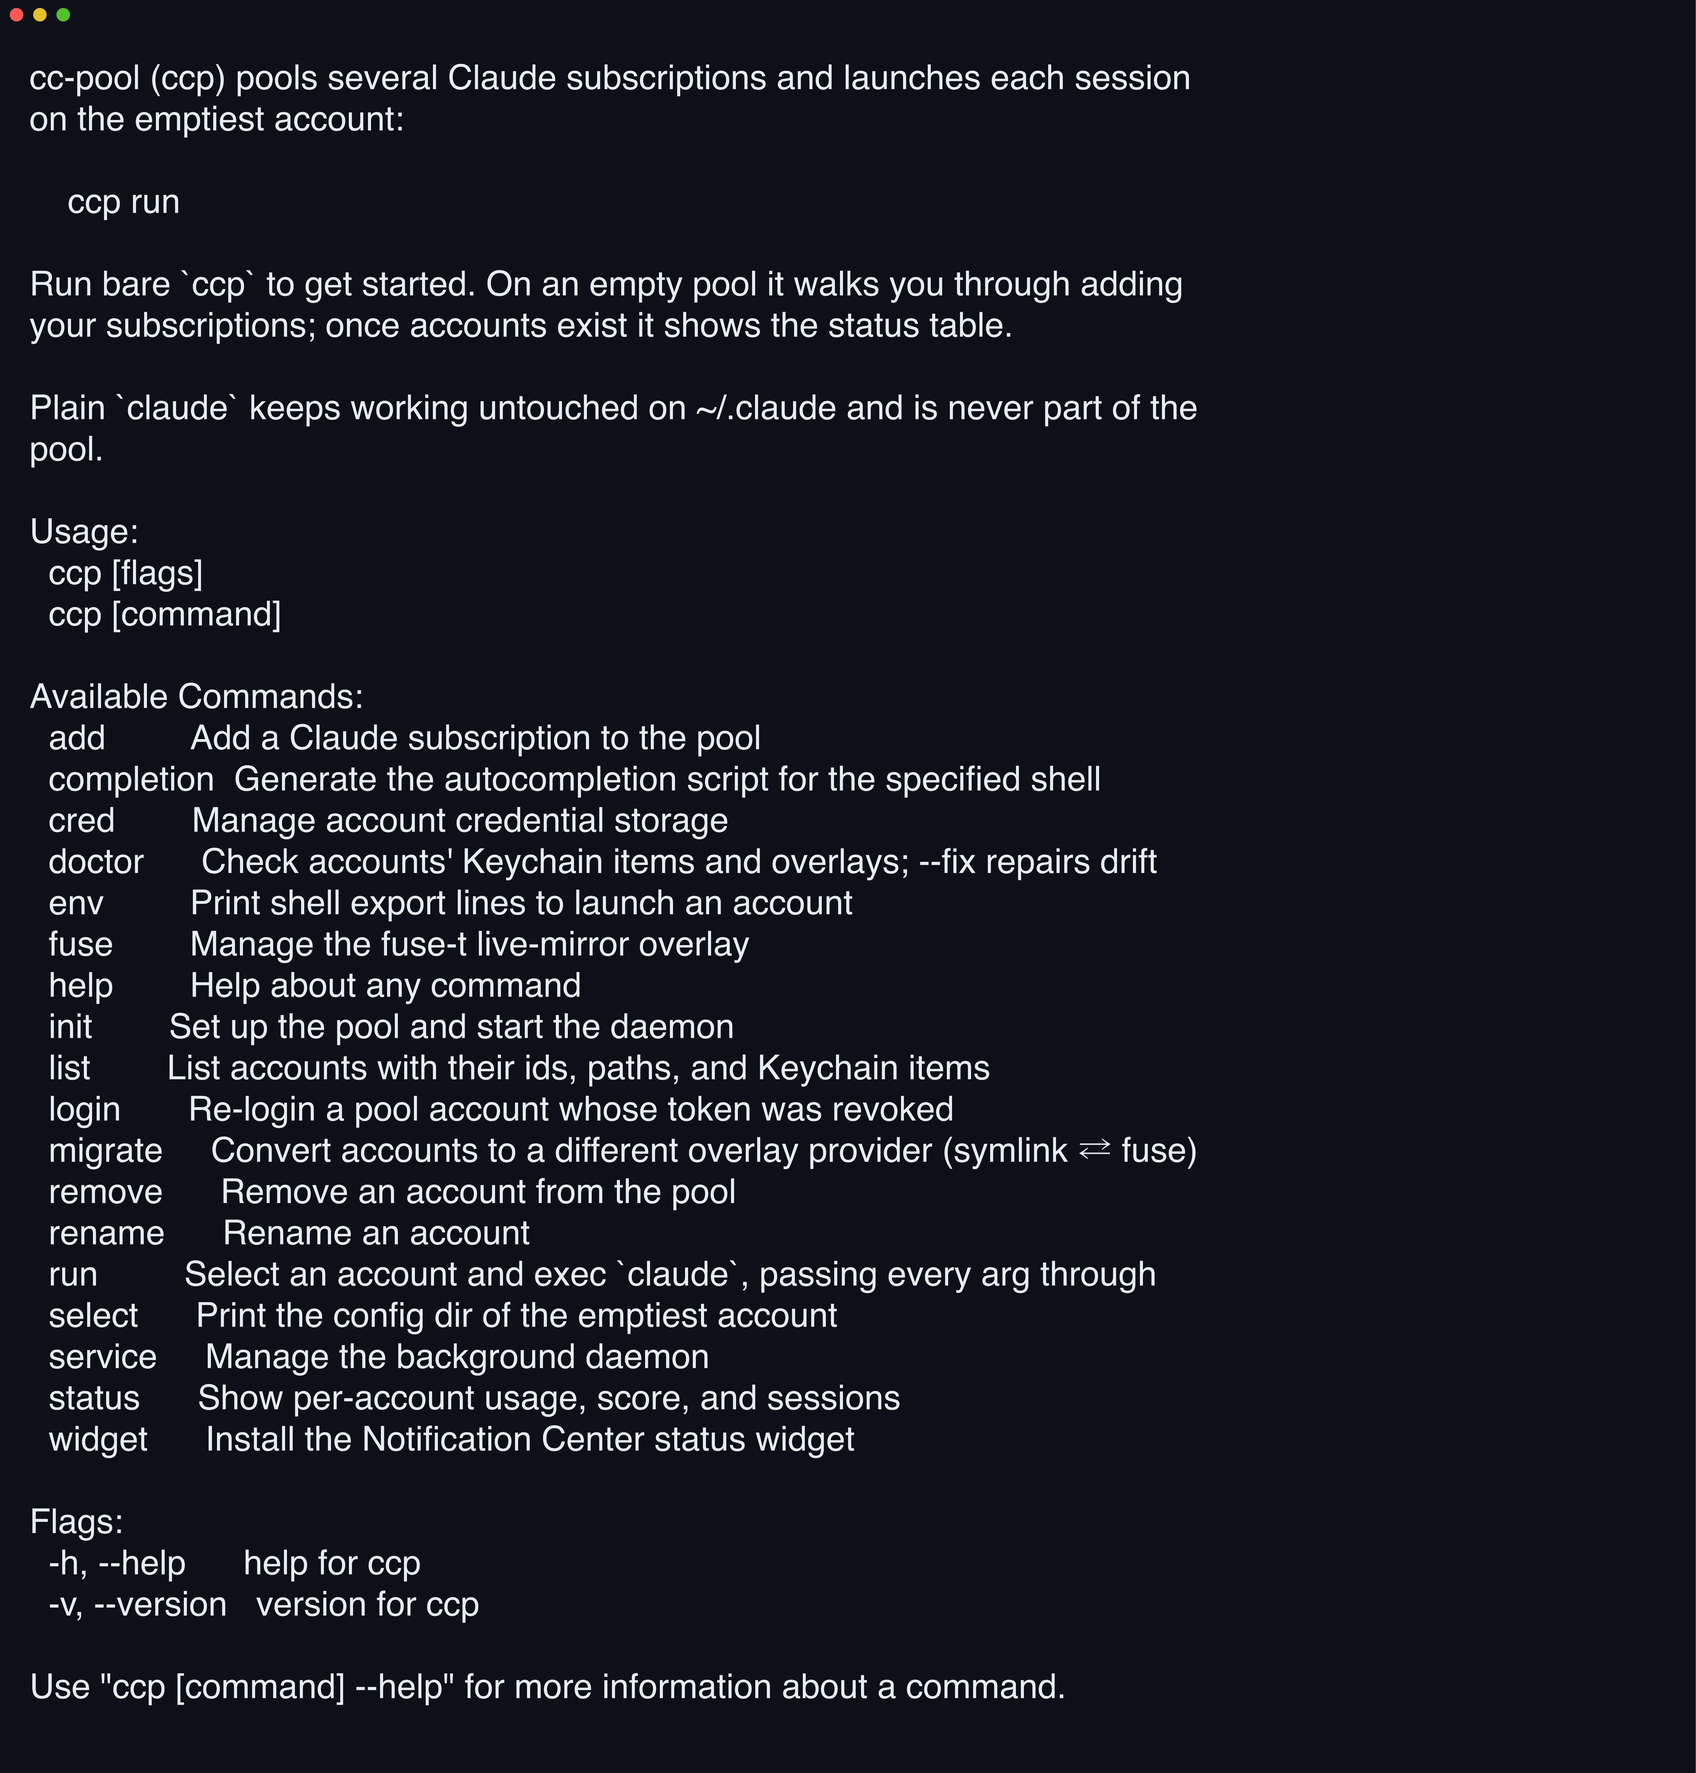
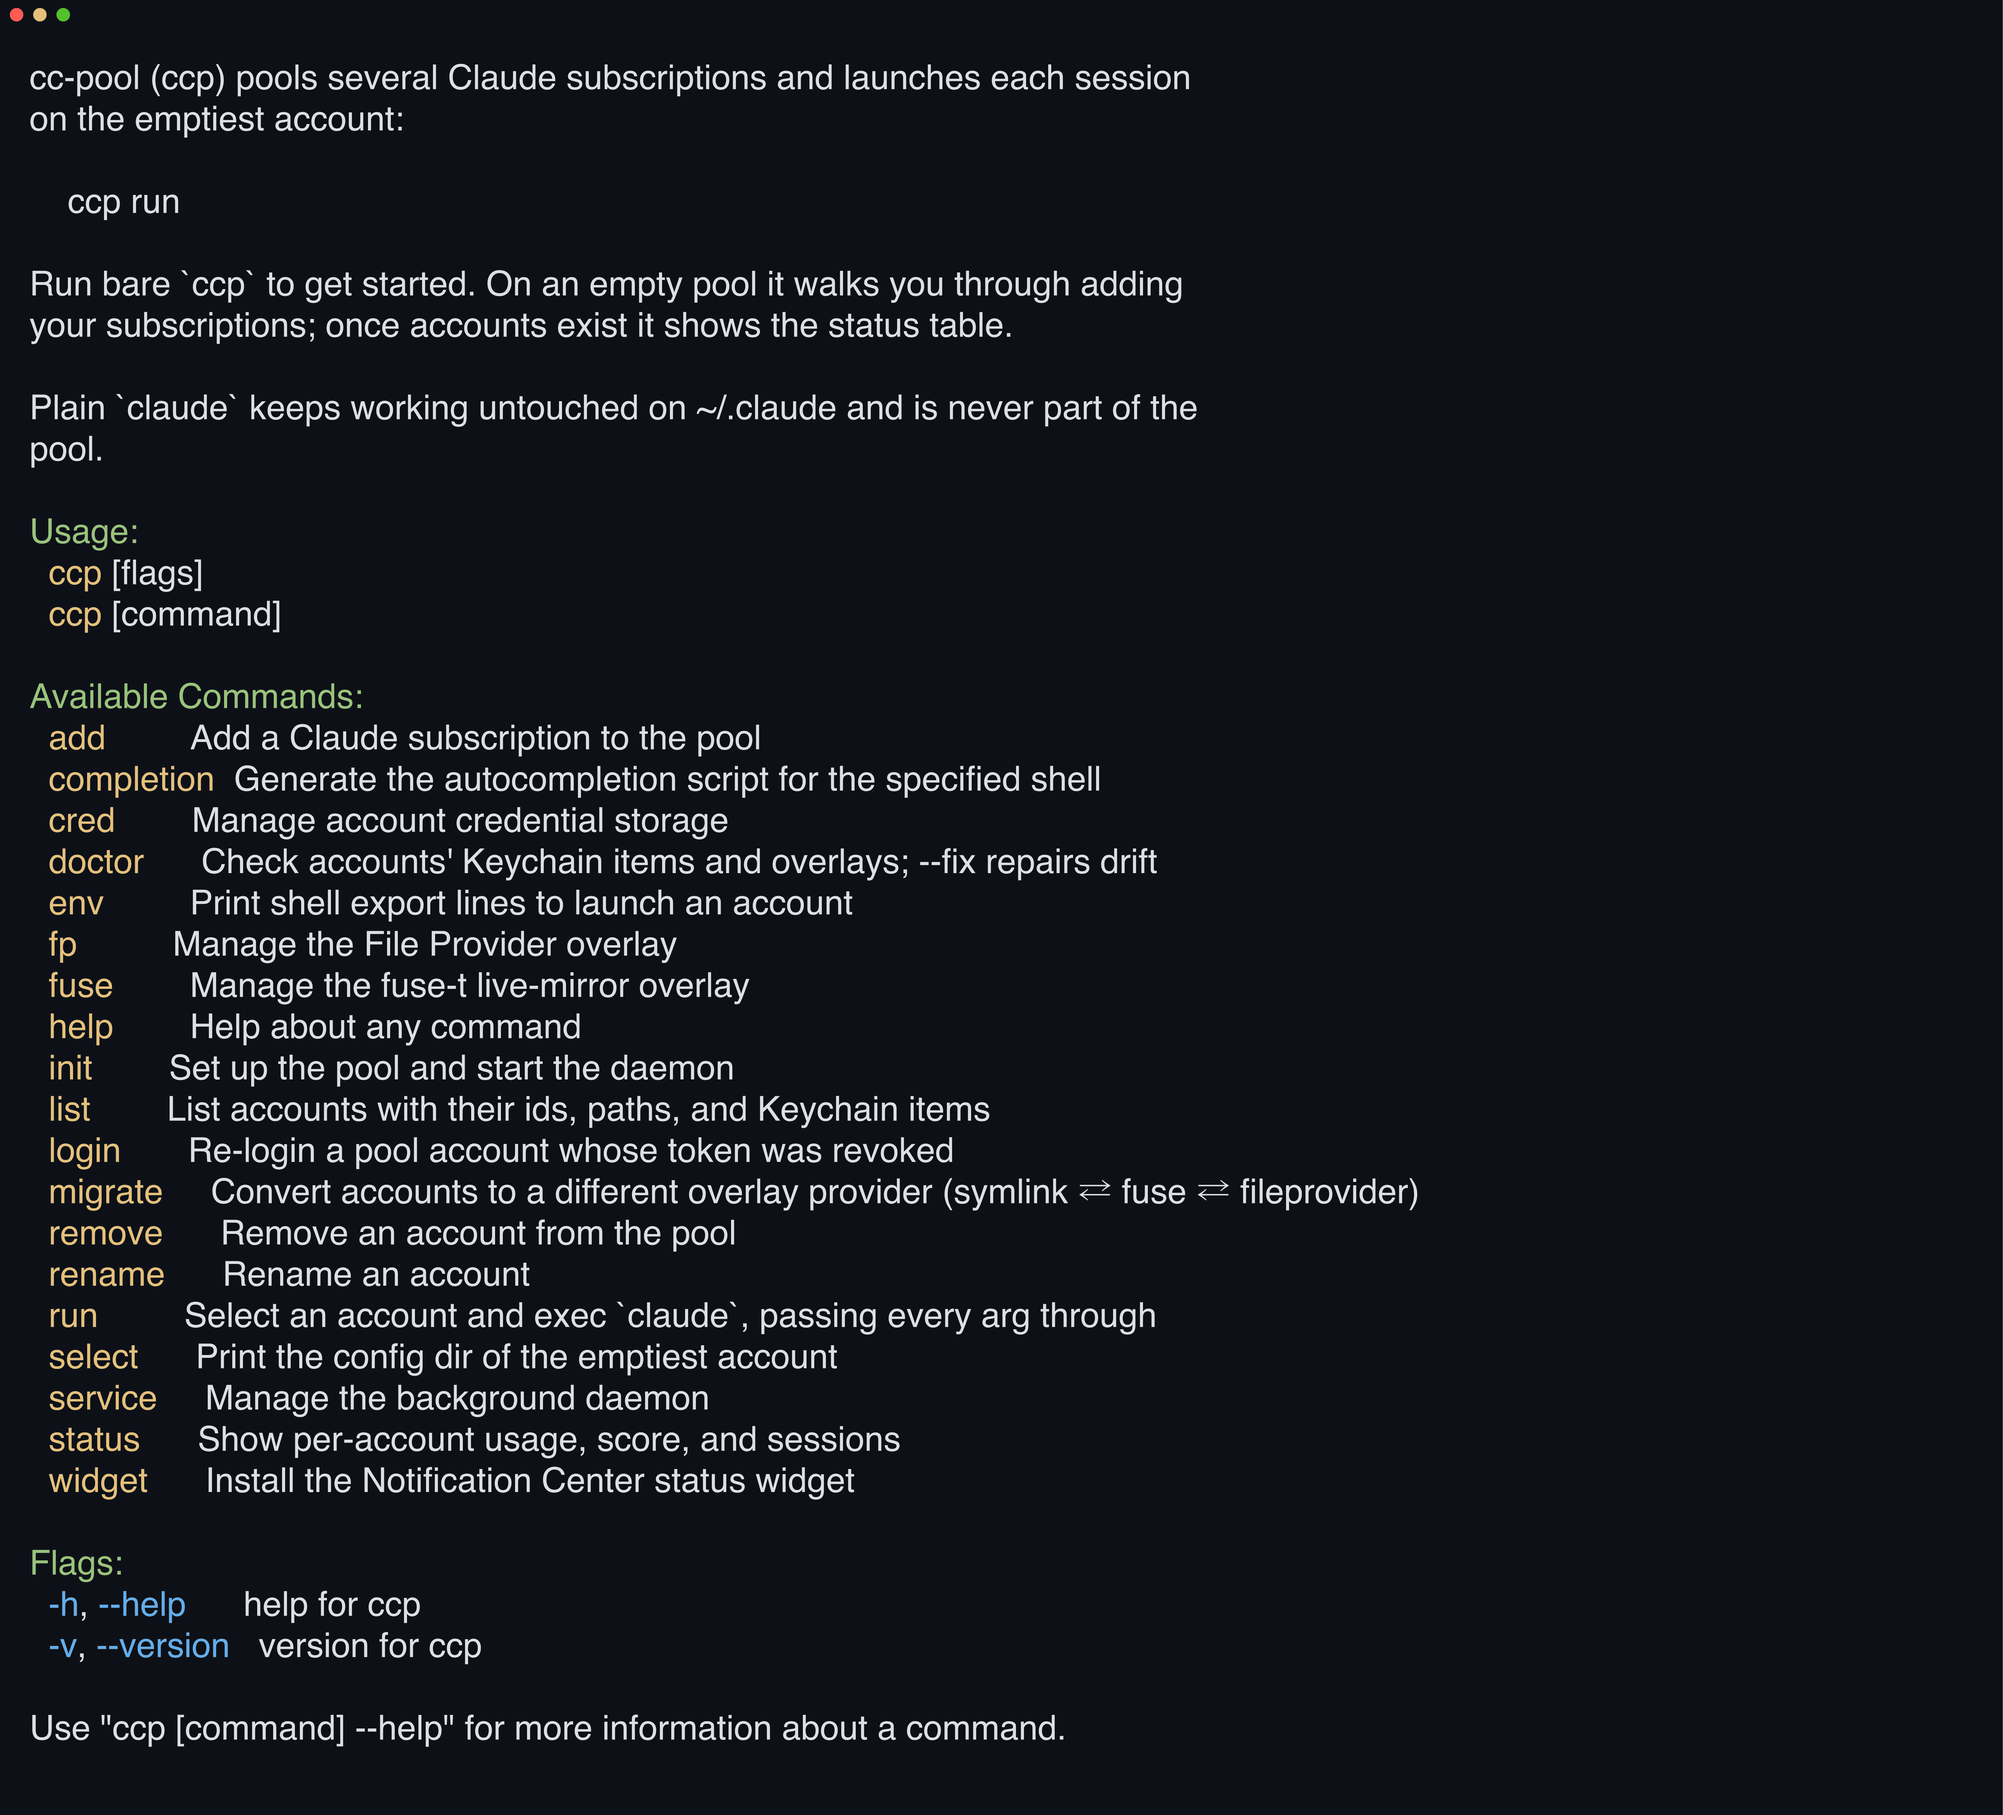
docs: colorize the help demo via bat+freeze and fold the FAQ into use cases

diff --git a/README.md b/README.md
@@ -4,7 +4,7 @@
 
 [![CI](https://img.shields.io/github/actions/workflow/status/yasyf/cc-pool/ci.yml?branch=main&label=CI)](https://github.com/yasyf/cc-pool/actions/workflows/ci.yml)
 [![Release](https://img.shields.io/github/v/release/yasyf/cc-pool)](https://github.com/yasyf/cc-pool/releases)
-[![License: PolyForm Noncommercial](https://img.shields.io/badge/License-PolyForm--Noncommercial--1.0.0-blue.svg)](LICENSE)
+[![License](https://img.shields.io/badge/License-PolyForm--Noncommercial--1.0.0-blue.svg)](LICENSE)
 
 ## Get started
 
@@ -15,7 +15,7 @@ ccp
 
 <img src="docs/assets/demo.png" alt="Terminal running 'ccp --help' — the command list from add to widget, plus the guarantee that plain claude is never part of the pool" width="700">
 
-macOS only; the binary installs as `cc-pool` with a `ccp` symlink. On an empty pool, `ccp` walks you through logging in each subscription — every account gets its own `claude /login` — then offers to wrap `claude` so every session lands on the account with the most headroom.
+macOS only; the binary installs as `cc-pool` with a `ccp` symlink. On an empty pool, `ccp` walks you through logging in each subscription, one `claude /login` per account, then offers to wrap `claude` so every session lands on the account with the most headroom.
 
 Driving with an agent? Paste this:
 
@@ -31,17 +31,19 @@ Finish by running `ccp status --plain` and tell me which account my next session
 
 ### Stop hitting the 5-hour limit while another account sits idle
 
-Run two subscriptions and you hit the same wall every week: one account pegged at its window while the other holds a week of headroom. With the alias in place, launching is unchanged:
+Run two subscriptions and you hit the same wall every week. One account sits pegged at its window while the other holds a week of headroom. With the alias in place, launching is unchanged:
 
 ```sh
 claude
 ```
 
-The wrapper announces its pick on stderr, then execs the real `claude` — cc-pool is gone from the process tree before Claude Code draws its first frame (emails here and below are normalized):
+The wrapper announces its pick on stderr, then execs the real `claude`; cc-pool is gone from the process tree before Claude Code draws its first frame (emails normalized):
 
 ```text
 Selected work@example.com · 5h 22% used · 7d 46% used
 ```
+
+The alias is `alias claude='ccp run'`, so `command claude` bypasses it whenever you want plain claude on `~/.claude`. To leave `claude` untouched entirely, decline the prompt at onboarding or pass `ccp add --no-alias`, then pick your own name, e.g. `alias cl='ccp run'`.
 
 ### See every account's 5-hour and 7-day headroom before you launch
 
@@ -58,7 +60,7 @@ ccp status --plain
 ▸ = next pick · score higher = emptier
 ```
 
-On a terminal, `ccp status` renders the same table as a live TUI.
+On a terminal, `ccp status` renders the same table as a live TUI. When the whole pool is exhausted, `ccp select --wait` blocks until a window frees up; an unforced launch falls back to the least-bad account with a loud stderr warning. That session bills pay-as-you-go credits if extra usage is enabled, or rate-limits until the reset.
 
 ### Keep prompt caches warm by pinning a directory to one account
 
@@ -70,28 +72,15 @@ ccp status   # highlight an account, press p to pin the current directory
 
 Every launch from that directory then announces `Reusing work@example.com (pinned)` instead of `Selected`, whatever the scores say.
 
-## Day-to-day use
+### Glance at the pool without opening a terminal
 
-**Escaping the alias.** The onboarding alias is `alias claude='ccp run'`, and `command claude` bypasses it — plain claude on `~/.claude`, one keystroke away. To leave `claude` untouched, decline the prompt (or pass `ccp add --no-alias`) and pick your own name, e.g. `alias cl='ccp run'`.
-
-**Passing arguments.** `ccp run` forwards every argument to `claude` verbatim — no `--` needed. Bare `ccp` with flags is shorthand for the same thing:
+Headroom you check only at launch time is headroom you discover too late. Put it in Notification Center:
 
 ```sh
-ccp run --resume
-ccp -p "summarize this repo"   # auto-converts to `ccp run -p ...`
+ccp widget
 ```
 
-**Forcing an account.** `CCP_ACCOUNT=2 ccp run` forces account 2 instead of auto-selecting.
-
-**When every account is full.** Selection never picks an exhausted window while any account has headroom, and `ccp select --wait` blocks until one frees up. If the whole pool is exhausted, the launch falls back to the least-bad account and warns loudly on stderr — that session then bills pay-as-you-go credits (if extra usage is enabled) or rate-limits until the window resets.
-
-**Composing it yourself.** `ccp select` prints the chosen config dir on stdout; `ccp env` prints the matching `export` lines. A bare-`ccp select` launch also needs the plugin root set, so the session writes canonical paths into the shared `~/.claude/plugins` (`ccp run` and `ccp env` do this for you):
-
-```sh
-CLAUDE_CODE_PLUGIN_CACHE_DIR="$HOME/.claude/plugins" CLAUDE_CONFIG_DIR=$(ccp select) claude
-```
-
-**The widget.** `ccp widget` installs a Notification Center widget (a separate cask, `yasyf/tap/cc-pool-status`) — per-account 5h/7d usage bars, live-session counts, and a pool mascot whose mood tracks how fast the pool is draining. Details in [widget/README.md](widget/README.md).
+The widget ships as its own cask, `yasyf/tap/cc-pool-status`, and shows per-account 5h/7d usage bars, live-session counts, and a pool mascot whose mood tracks how fast the pool is draining. Details in [widget/README.md](widget/README.md).
 
 <img src="docs/assets/widget-medium.png" alt="The cc-pool Notification Center widget — per-account 5-hour and 7-day usage bars, live-session counts, and a worried mascot at 62% pool usage" width="450">
 
@@ -99,19 +88,19 @@ CLAUDE_CODE_PLUGIN_CACHE_DIR="$HOME/.claude/plugins" CLAUDE_CONFIG_DIR=$(ccp sel
 
 | Command | What it does |
 |---|---|
-| `ccp` | Empty pool: guided onboarding. Populated pool: status. With flags: shorthand for `ccp run` |
-| `ccp add` | Pool a subscription via its own `claude /login` (auto-inits the pool, starts the daemon) |
+| `ccp` | Guided onboarding on an empty pool, the status table once accounts exist, and shorthand for `ccp run` when given flags |
+| `ccp add` | Pool a subscription via its own `claude /login`; auto-inits the pool and starts the daemon |
 | `ccp run [claude args…]` | Select the emptiest account and exec `claude`, forwarding every arg |
-| `ccp status` | Per-account usage, score, and sessions — TUI on a terminal, plain table when piped |
-| `ccp select` | Print the chosen account's config dir on stdout — the composable hot path |
+| `ccp status` | Per-account usage, score, and sessions; TUI on a terminal, plain table when piped |
+| `ccp select` | Print the chosen account's config dir on stdout, the composable hot path |
 | `ccp doctor` | Check accounts' Keychain items and overlays; `--fix` repairs drift |
-| `ccp service` | Manage the daemon and mount holder (`install`/`uninstall`/`status`) |
+| `ccp service` | Manage the daemon and mount holder via `install`, `uninstall`, and `status` |
 
-Run `ccp help <command>` for the rest (`env`, `list`, `login`, `rename`, `remove`, `init`, `migrate`, `cred`, `fuse`) and every flag.
+Run `ccp help <command>` for every flag and the rest of the surface, which covers `env`, `list`, `login`, `rename`, `remove`, `init`, `migrate`, `cred`, and `fuse`.
 
 ## How it works
 
-`~/.claude` is **never touched** — plain `claude` keeps working and can't be logged out by the pool. Secrets live only in the macOS Keychain, never in cc-pool's database. Selection is **predictive**: it scores each account's live 5h/7d usage before launch and picks the emptiest, instead of waiting for a rate-limit error to tell you the pick was wrong. The full design — per-account config dirs, the shared overlay, the scoring formula, and the daemon — is in [docs/ARCHITECTURE.md](docs/ARCHITECTURE.md).
+`~/.claude` is **never touched**. Plain `claude` keeps working and can't be logged out by the pool. Secrets live only in the macOS Keychain, never in cc-pool's database. Selection is **predictive**. It scores each account's live 5h/7d usage before launch and picks the emptiest, instead of waiting for a rate-limit error to tell you the pick was wrong. [docs/ARCHITECTURE.md](docs/ARCHITECTURE.md) covers the full design, from per-account config dirs and the shared overlay to the scoring formula and the daemon.
 
 ## Uninstall
 
@@ -122,4 +111,4 @@ ccp service uninstall --purge    # ...and remove all pool accounts/dirs/state
 brew uninstall cc-pool
 ```
 
-Licensed under [PolyForm Noncommercial 1.0.0](LICENSE) — free for noncommercial use.
+Licensed under [PolyForm Noncommercial 1.0.0](LICENSE), free for noncommercial use.
